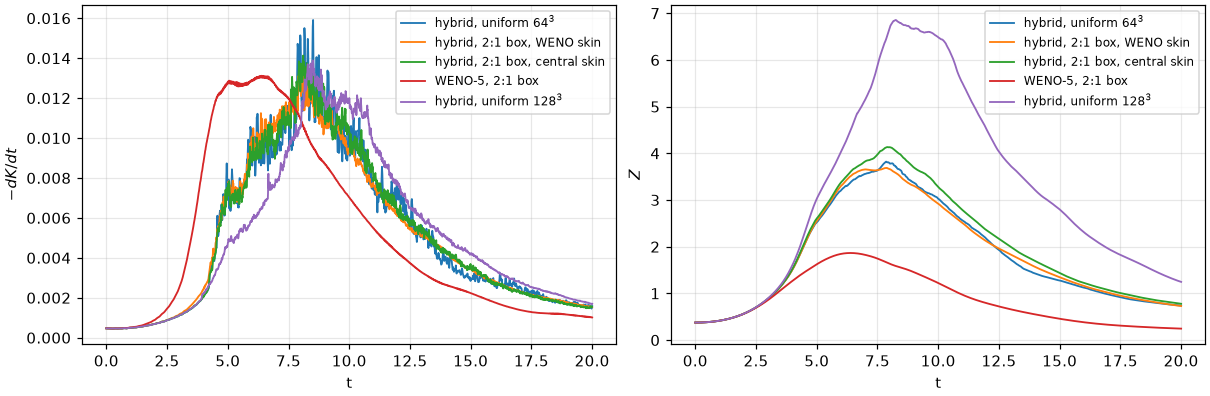
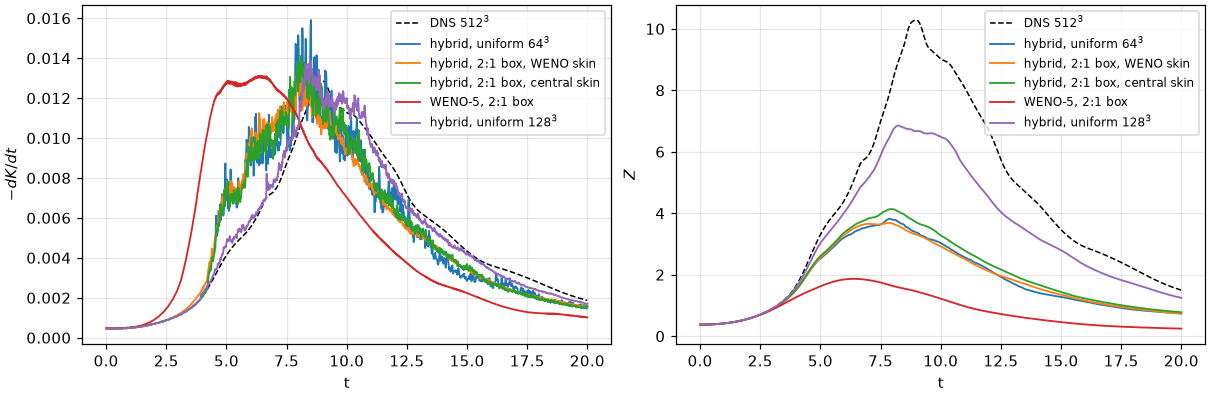
docs(flume): the Taylor-Green campaign against the 512^3 DNS (#119 T0.3, T1.7, T2.7)
The owner supplied spectral_Re1600_512.gdiag. tgv_dns.py gives peak and L2 errors against it, the three page figures draw it, the page has a table.

Result at M 0.1, L2 error of -dK/dt, of Z, of K: hybrid 128^3 0.067, 0.271, 0.014; WENO-5 256^3 0.090, 0.331, 0.020; WENO-5 128^3 0.278, 0.643, 0.083. The
hybrid at 128^3 beats WENO-5 at 256^3 on all three. Vreman worsens the hybrid (0.114, 0.400, 0.029 at 128^3), as all three models worsen WENO-5. On the 2:1
box the central skin ties or beats uniform 64^3, the WENO skin does not. WENO-9 beats WENO-5, WENO-7 stays unexplained below it.

Numbers from the existing campaign histories; no solver change, no run. The data file is not in this commit: redistribution is not established, and the
figures skip the curve without it. Gate: docs build.

New directives: no new directives.

diff --git a/src/tests/flume/verification/make_doc_figures.py b/src/tests/flume/verification/make_doc_figures.py
@@ -2154,8 +2154,20 @@ def _turbulence_history(work: Path) -> np.ndarray:
     return rows
 
 
-def _turbulence_panels(axs, runs: Path, cases: list[tuple[str, str]], tscale: float = 1.0) -> None:
+def _dns_curve(axs) -> None:
+    """Draw the 512^3 spectral DNS of the High-Order CFD Workshop, C3.5, if its file is in the repository root."""
+    path = Path(__file__).resolve().parents[4] / "spectral_Re1600_512.gdiag"
+    if not path.exists():
+        return
+    t, _, d, z = np.loadtxt(path, comments="#").T
+    axs[0].plot(t, d, color="k", ls="--", lw=1.0, label="DNS $512^3$")
+    axs[1].plot(t, z, color="k", ls="--", lw=1.0, label="DNS $512^3$")
+
+
+def _turbulence_panels(axs, runs: Path, cases: list[tuple[str, str]], tscale: float = 1.0, dns: bool = False) -> None:
     """Draw -dK/dt and the enstrophy of the cases (name, label) on the two axes; a case not run yet is left out."""
+    if dns:
+        _dns_curve(axs)
     for name, label in cases:
         work = runs / name
         if not (work / "tgv-turbulence_history.dat").exists():
@@ -2179,12 +2191,10 @@ def fig_tgv_iles(out: Path, runs: Path) -> None:
     if not (root / "m0.1-weno-5-n64").exists():
         raise FileNotFoundError(root / "m0.1-weno-5-n64")
     fig, axs = plt.subplots(3, 2, figsize=(11.0, 10.0), constrained_layout=True, sharex=True)
-    _turbulence_panels(axs[0], root, [(f"m0.1-weno-5-n{n}", f"WENO-5, ${n}^3$") for n in (64, 128, 256)])
+    _turbulence_panels(axs[0], root, [(f"m0.1-weno-5-n{n}", f"WENO-5, ${n}^3$") for n in (64, 128, 256)], dns=True)
     _turbulence_panels(axs[1], root, [("m0.1-weno-5-n128", "WENO-5"), ("m0.1-riemann-5-n128", "WENO-5 HLLC"),
-                                      ("m0.1-weno-7-n128", "WENO-7"), ("m0.1-weno-9-n128", "WENO-9")])
+                                      ("m0.1-weno-7-n128", "WENO-7"), ("m0.1-weno-9-n128", "WENO-9")], dns=True)
     _turbulence_panels(axs[2], root, [(f"m1.25-weno-5-n{n}", f"$M_0$ 1.25, ${n}^3$") for n in (64, 128, 256)])
-    for r in (0, 1):
-        axs[r, 1].axhline(10.3, color="k", ls=":", lw=0.8)
     axs[2, 0].set_xlabel("t")
     axs[2, 1].set_xlabel("t")
     fig.savefig(out / "tgv-iles.png", dpi=DPI)
@@ -2200,9 +2210,9 @@ def fig_tgv_models(out: Path, runs: Path) -> None:
     fig, axs = plt.subplots(3, 2, figsize=(11.0, 10.0), constrained_layout=True, sharex=True)
     for row, n in ((0, 64), (1, 128)):
         _turbulence_panels(axs[row], root, [(f"m0.1-weno-5-n{n}", f"no model, ${n}^3$"), (f"m0.1-vreman-5-n{n}", "Vreman"),
-                                            (f"m0.1-wale-5-n{n}", "WALE"), (f"m0.1-sigma-5-n{n}", "Sigma")])
+                                            (f"m0.1-wale-5-n{n}", "WALE"), (f"m0.1-sigma-5-n{n}", "Sigma")], dns=True)
     _turbulence_panels(axs[2], root, [("m0.1-weno-5-n64", "uniform $64^3$"), ("m0.1-box-5-n64", "2:1 box, tricubic, mean"),
-                                      ("m0.1-box-q6-5-n64", "2:1 box, quintic, lagrange6"), ("m0.1-weno-5-n128", "uniform $128^3$")])
+                                      ("m0.1-box-q6-5-n64", "2:1 box, quintic, lagrange6"), ("m0.1-weno-5-n128", "uniform $128^3$")], dns=True)
     axs[2, 0].set_xlabel("t")
     axs[2, 1].set_xlabel("t")
     fig.savefig(out / "tgv-models.png", dpi=DPI)
@@ -2249,13 +2259,11 @@ def fig_tgv_hybrid(out: Path, runs: Path) -> None:
         raise FileNotFoundError(root / "m0.1-hybrid-n64")
     fig, axs = plt.subplots(3, 2, figsize=(11.0, 10.0), constrained_layout=True, sharex=True)
     _turbulence_panels(axs[0], root, [("m0.1-hybrid-n64", "hybrid, $64^3$"), ("m0.1-hybrid-n128", "hybrid, $128^3$"), ("m0.1-weno-5-n128", "WENO-5, $128^3$"),
-                                      ("m0.1-weno-5-n256", "WENO-5, $256^3$")])
+                                      ("m0.1-weno-5-n256", "WENO-5, $256^3$")], dns=True)
     _turbulence_panels(axs[1], root, [("m0.1-hybrid-n64", "hybrid, $64^3$"), ("m0.1-hybrid-vreman-n64", "hybrid + Vreman, $64^3$"), ("m0.1-hybrid-n128", "hybrid, $128^3$"),
-                                      ("m0.1-hybrid-vreman-n128", "hybrid + Vreman, $128^3$")])
+                                      ("m0.1-hybrid-vreman-n128", "hybrid + Vreman, $128^3$")], dns=True)
     _turbulence_panels(axs[2], root, [("m1.25-hybrid-n128", "hybrid, $128^3$"), ("m1.25-hybrid-n256", "hybrid, $256^3$"), ("m1.25-weno-5-n128", "WENO-5, $128^3$"),
                                       ("m1.25-weno-5-n256", "WENO-5, $256^3$")])
-    for r in (0, 1):
-        axs[r, 1].axhline(10.3, color="k", ls=":", lw=0.8)
     axs[2, 0].set_xlabel("t")
     axs[2, 1].set_xlabel("t")
     fig.savefig(out / "tgv-hybrid.png", dpi=DPI)
@@ -2263,7 +2271,7 @@ def fig_tgv_hybrid(out: Path, runs: Path) -> None:
     fig, axs = plt.subplots(1, 2, figsize=(11.0, 3.6), constrained_layout=True)
     _turbulence_panels(axs, root, [("m0.1-hybrid-n64", "hybrid, uniform $64^3$"), ("m0.1-hybrid-box-n64", "hybrid, 2:1 box, WENO skin"),
                                    ("m0.1-hybrid-box-central-n64", "hybrid, 2:1 box, central skin"), ("m0.1-box-5-n64", "WENO-5, 2:1 box"),
-                                   ("m0.1-hybrid-n128", "hybrid, uniform $128^3$")])
+                                   ("m0.1-hybrid-n128", "hybrid, uniform $128^3$")], dns=True)
     axs[0].set_xlabel("t")
     axs[1].set_xlabel("t")
     fig.savefig(out / "tgv-hybrid-box.png", dpi=DPI)

diff --git a/src/tests/flume/verification/turbulence/tgv_dns.py b/src/tests/flume/verification/turbulence/tgv_dns.py
@@ -1,0 +1,43 @@
+#!/usr/bin/env python3
+"""The Taylor-Green campaign of issue #119 against the 512^3 spectral DNS (High-Order CFD Workshop, case C3.5, spectral_Re1600_512.gdiag): one row per case
+directory. Peak -dK/dt over a window of 0.5, as the page; L2 errors over 0.3 < t < 19.7, relative to the DNS: of -dK/dt (both over the window), of Z and of K.
+
+Usage: tgv_dns.py <gdiag> <directory holding the cases> <case>...
+"""
+
+from __future__ import annotations
+
+import sys
+from pathlib import Path
+
+import numpy as np
+
+VOLUME = (2.0 * np.pi) ** 3
+
+
+def main() -> int:
+    """Print the table."""
+    tdns, kdns, ddns, zdns = np.loadtxt(sys.argv[1], comments="#").T
+    print(f"DNS: peak -dK/dt {ddns.max():.5f} at t {tdns[ddns.argmax()]:.2f}, Z {zdns.max():.3f} at t {tdns[zdns.argmax()]:.2f}")
+    print(f"{'case':30s} {'-dK/dt':>8s} {'at t':>6s} {'Z':>7s} {'at t':>6s} {'L2 dK':>7s} {'L2 Z':>7s} {'L2 K':>7s}")
+    keep = (tdns > 0.3) & (tdns < 19.7)
+    t = tdns[keep]
+    window = np.ones(50) / 50.0
+    dref = np.convolve(ddns, window, "same")[keep]
+
+    def err(a: np.ndarray, b: np.ndarray) -> float:
+        return float(np.sqrt(np.trapezoid((a - b) ** 2, t) / np.trapezoid(b**2, t)))
+
+    for case in sys.argv[3:]:
+        h = np.loadtxt(Path(sys.argv[2]) / case / "tgv-turbulence_history.dat", skiprows=1, ndmin=2)
+        _, last = np.unique(h[::-1, 0], return_index=True)  # the last copy of the rows run twice
+        h = h[::-1][last]
+        k, z = h[:, 2] / VOLUME, h[:, 3] / VOLUME
+        dk = -(np.interp(t + 0.25, h[:, 1], k) - np.interp(t - 0.25, h[:, 1], k)) / 0.5
+        print(f"{case:30s} {dk.max():8.5f} {t[dk.argmax()]:6.2f} {z.max():7.3f} {h[z.argmax(), 1]:6.2f} {err(dk, dref):7.3f} "
+              f"{err(np.interp(t, h[:, 1], z), zdns[keep]):7.3f} {err(np.interp(t, h[:, 1], k), kdns[keep]):7.3f}")
+    return 0
+
+
+if __name__ == "__main__":
+    sys.exit(main())

diff --git a/docs/applications/flume/verification/turbulence/index.md b/docs/applications/flume/verification/turbulence/index.md
@@ -38,8 +38,7 @@ Re 1600, $[0, 2\pi]^3$, `runge-kutta-ssp-54`, CFL 0.5, `weights = si`, 4 ranks o
 
 ![The ILES baseline on the Taylor-Green vortex](/flume/tgv-iles.png)
 
-*Top: M 0.1, WENO-5 by resolution; middle: M 0.1 at $128^3$ by scheme and order; bottom: $M_0 = 1.25$ by resolution. Left $-dK/dt$, right the enstrophy; dotted: the
-enstrophy peak about 10.3 quoted for the incompressible reference by Svärd (2022).*
+*Top: M 0.1, WENO-5 by resolution; middle: M 0.1 at $128^3$ by scheme and order; bottom: $M_0 = 1.25$ by resolution. Left $-dK/dt$, right the enstrophy; dashed: the 512³ spectral DNS, at M 0.1.*
 
 | Case | Peak $-dK/dt$ | at $t$ | Peak $Z$ | at $t$ | Numerical share to the peak | $K(20)$ |
 |---|---|---|---|---|---|---|
@@ -59,8 +58,7 @@ enstrophy peak about 10.3 quoted for the incompressible reference by Svärd (202
 
 The share is that of the energy lost until the peak of $-dK/dt$ not accounted for by $\varepsilon - p_d$.
 
-**Reference.** The 512³ pseudo-spectral DNS of the High-Order CFD Workshop (case C3.5, `spectral_Re1600_512.gdiag`) is not available to this tree, so no curve is compared,
-only the quoted peak. The incompressible reference has its dissipation peak near $t = 9$. Compressible Mach 1.25 is compared with nothing here.
+**Reference.** The 512³ pseudo-spectral DNS of the High-Order CFD Workshop (case C3.5, `spectral_Re1600_512.gdiag`), incompressible, so compared at M 0.1 only: peak $-dK/dt$ 0.01286 and peak $Z$ 10.29, both at $t = 8.97$. The table in [Against the DNS](#against-the-dns) gives the errors. Compressible Mach 1.25 is compared with nothing here.
 
 **What it shows.**
 - Numerical dissipation dominates: up to the peak of $-dK/dt$ it is 77 % of the energy lost at $64^3$ and 58 % at $128^3$ with WENO-5 at M 0.1. At $128^3$ the enstrophy peak is a third of the
@@ -89,7 +87,7 @@ Here the share leaves out the model's own dissipation, so it is not a pure numer
 
 **No model beats no model on this measure.** On a dissipative scheme each one lowers the enstrophy peak further from the reference (1.59 against 1.71 at $64^3$, 3.18 against 3.40 at $128^3$), and the three are nearly the same.
 The eddy viscosity adds to a numerical dissipation that already dominates; in the laminar phase, to $t = 2$ at M 0.4, it takes 21–53 % of the energy lost. Under the rule of #119 this makes the hybrid central/WENO scheme (T2) necessary before any model is
-recommended. The constants come from other discretizations and were not tuned. Only peaks are compared: a spectral comparison with filtered DNS could rank the models differently.
+recommended. The constants come from other discretizations and were not tuned. A spectral comparison with filtered DNS could still rank the models differently; on the integrals, [the DNS](#against-the-dns) confirms this.
 
 ## The effect of a 2:1 box (T0.6)
 
@@ -130,7 +128,7 @@ $K$ keeps changing with the resolution by 7 % from $128^3$ to $256^3$, so $256^3
 
 ![The hybrid scheme on the Taylor-Green vortex](/flume/tgv-hybrid.png)
 
-*Top: M 0.1, the hybrid against WENO-5; middle: with Vreman; bottom: $M_0 = 1.25$. Left $-dK/dt$, right the enstrophy; dotted: the enstrophy peak about 10.3 quoted for the incompressible reference.*
+*Top: M 0.1, the hybrid against WENO-5; middle: with Vreman; bottom: $M_0 = 1.25$. Left $-dK/dt$, right the enstrophy; dashed: the 512³ spectral DNS, on the M 0.1 rows.*
 
 | Case, M 0.1 | Peak $-dK/dt$, raw | Over $\Delta t = 0.5$ | at $t$ | Flicker, $7<t<10$ | Peak $Z$ | Numerical share to the peak |
 |---|---|---|---|---|---|---|
@@ -155,7 +153,7 @@ Isotropic turbulence: peak $Z$ 41.0 and 57.4 at $64^3$, $128^3$ against 34.5 and
 - At M 0.1 the hybrid reaches at $128^3$ a higher enstrophy peak than WENO-5 at $256^3$, and at $64^3$ more than WENO-5 at $128^3$, with the dissipation peak where the finer runs have it. $Z$ is still below the quoted 10.3.
 - At $M_0 = 1.25$ the gain is smaller, as the sensor keeps WENO around the shocklets.
 - **The raw peak of $-dK/dt$ is not a measure on the hybrid:** it flickers, 7 % at $64^3$, 2 % at $128^3$. The source is not established; the sensor switching on and off is the first candidate. Smoothed, the hybrid is 4–6 % above WENO-5 at $256^3$.
-- **Vreman on the hybrid** removes half of the flicker and lowers $Z$ by 20 %. At $64^3$ it lands below the finer runs (0.0117). Whether a model helps the hybrid is not settled by these peaks: it needs the DNS curves.
+- **Vreman on the hybrid** removes half of the flicker and lowers $Z$ by 20 %. At $64^3$ it lands below the finer runs (0.0117). Against the DNS it makes the hybrid worse at both resolutions (below).
 - The thresholds (0.2, 0.1) and the floor are not calibrated.
 
 ### On a 2:1 box, and what the skin costs
@@ -171,7 +169,38 @@ Isotropic turbulence: peak $Z$ 41.0 and 57.4 at $64^3$, $128^3$ against 34.5 and
 | hybrid, box, central skin | 0.01319 | 4.13 |
 | hybrid, uniform $64^3$ | 0.01333 | 3.82 |
 
-With the WENO skin the box ends below the uniform run in $Z$: the skin takes more than the extra cells give. The central skin is stable to $t = 20$ and above it. Neither is shown more accurate, without a reference curve. A vortex after Jiang & Shu (the code's profile, same strength and radius, unit square) through a Mach 1.1 shock crossing the box seams also runs with the central skin; it differs from the WENO skin by at most $2.8\cdot10^{-4}$ in density at $t = 0.35$.
+With the WENO skin the box ends below the uniform run in $Z$: the skin takes more than the extra cells give. The central skin is stable to $t = 20$ and above it. Against the DNS the central skin is the closer one (table below), on this smooth flow; the case with a shock has no reference. A vortex after Jiang & Shu (the code's profile, same strength and radius, unit square) through a Mach 1.1 shock crossing the box seams also runs with the central skin; it differs from the WENO skin by at most $2.8\cdot10^{-4}$ in density at $t = 0.35$.
+
+### Against the DNS
+
+M 0.1 against the 512³ DNS, from `turbulence/tgv_dns.py`. Peak $-dK/dt$ over a window of 0.5; L2 errors over $0.3 < t < 19.7$ relative to the DNS, $-dK/dt$ over the same window.
+
+| Case | Peak $-dK/dt$ | at $t$ | Peak $Z$ | at $t$ | L2 $-dK/dt$ | L2 $Z$ | L2 $K$ |
+|---|---|---|---|---|---|---|---|
+| DNS | 0.01286 | 8.97 | 10.29 | 8.97 | | | |
+| WENO-5, $64^3$ | 0.01357 | 5.09 | 1.709 | 6.25 | 0.660 | 0.844 | 0.187 |
+| WENO-5, $128^3$ | 0.01216 | 8.29 | 3.400 | 8.11 | 0.278 | 0.643 | 0.083 |
+| WENO-5, $256^3$ | 0.01260 | 8.72 | 6.182 | 8.56 | 0.090 | 0.331 | 0.020 |
+| HLLC, $128^3$ | 0.01235 | 8.32 | 3.585 | 8.11 | 0.260 | 0.623 | 0.070 |
+| WENO-7, $128^3$ | 0.01215 | 8.11 | 3.171 | 8.14 | 0.291 | 0.688 | 0.101 |
+| WENO-9, $128^3$ | 0.01274 | 8.27 | 4.454 | 8.03 | 0.177 | 0.539 | 0.037 |
+| Vreman, $64^3$ | 0.01373 | 5.11 | 1.591 | 6.23 | 0.671 | 0.854 | 0.200 |
+| Vreman, $128^3$ | 0.01193 | 8.28 | 3.177 | 8.15 | 0.295 | 0.662 | 0.092 |
+| WALE, $128^3$ | 0.01183 | 8.26 | 3.164 | 8.16 | 0.296 | 0.660 | 0.091 |
+| Sigma, $128^3$ | 0.01192 | 8.29 | 3.184 | 8.14 | 0.293 | 0.660 | 0.091 |
+| WENO-5, 2:1 box | 0.01304 | 6.41 | 1.865 | 6.39 | 0.617 | 0.829 | 0.178 |
+| hybrid, $64^3$ | 0.01333 | 8.09 | 3.822 | 7.86 | 0.237 | 0.615 | 0.057 |
+| **hybrid, $128^3$** | 0.01317 | 8.47 | 6.856 | 8.25 | 0.067 | 0.271 | 0.014 |
+| hybrid + Vreman, $64^3$ | 0.01173 | 8.21 | 2.917 | 8.09 | 0.283 | 0.678 | 0.086 |
+| hybrid + Vreman, $128^3$ | 0.01226 | 8.58 | 5.529 | 8.33 | 0.114 | 0.400 | 0.029 |
+| hybrid, 2:1 box, WENO skin | 0.01239 | 8.14 | 3.688 | 7.88 | 0.269 | 0.618 | 0.063 |
+| hybrid, 2:1 box, central skin | 0.01319 | 8.11 | 4.134 | 7.91 | 0.236 | 0.580 | 0.059 |
+
+- **The hybrid at $128^3$ is closer than WENO-5 at $256^3$** on all three errors, with one eighth of the cells. At $64^3$ it is closer than WENO-5 at $128^3$.
+- Its peak of $-dK/dt$ is 2.4 % above the DNS and comes at $t = 8.47$ rather than 8.97; $Z$ at $128^3$ reaches two thirds of the DNS peak, so the gradients are not converged.
+- **A model makes it worse:** Vreman takes the $-dK/dt$ error from 0.067 to 0.114 and the $Z$ error from 0.27 to 0.40 at $128^3$. All three models also worsen WENO-5. This flow at Re 1600 is not a case where the subgrid scales are far from resolved, and the constants were not tuned; on these integrals no model is recommended here.
+- **WENO-9** at $128^3$ (0.177) is much closer than WENO-5 (0.278); **WENO-7** is further (0.291), still unexplained.
+- **The skin:** on the 2:1 box the WENO skin (0.269) is further than uniform $64^3$ (0.237); the central skin ties it on $-dK/dt$ (0.236) and beats it on $Z$ (0.580 against 0.615). Smooth flow only.
 
 ### Cost
 
@@ -180,6 +209,6 @@ With the WENO skin the box ends below the uniform run in $Z$: the skin takes mor
 ## Not done
 
 - HLLC at $256^3$, M 0.1 was dropped by owner decision.
-- Comparison with DNS curves and spectra, which needs the reference files.
+- Spectra against the DNS: the file holds integrals only. The DNS of Johnsen et al. for the isotropic case.
 - Calibration of the sensor; a model masked by face rather than by cell; `central-bcs` on a forest seam.
 - A model on 2:1 grids beyond conservation; runtime AMR with a model; a wall.

diff --git a/docs/applications/flume/numerics.md b/docs/applications/flume/numerics.md
@@ -616,7 +616,7 @@ One flux per face, so conservation holds whichever kernel set it; computing WENO
 
 **Seams and boundaries.** The central stencil must not read ghost cells that are not a same-level copy: a face along $d$ whose stencil reaches the ghost cells of a 2:1 face, a physical face or a forest seam normal to $d$ keeps the WENO flux (T2.4). So a seam and its reflux stay what they are under `weno`. A flag acts along its own normal only, and on such grids the sensor is exchanged like a state, one more halo exchange per stage: otherwise the two blocks of a same-level interface could take different fluxes at their common face, and conservation is lost (measured: $2\cdot10^{-7}$ on a 2:1 box). Whether this could be relaxed has not been measured.
 
-`hybrid_skin` relaxes this for measurement ([input](./input#numerics)); the default stays WENO, as the runs have no reference curve to prefer another.
+`hybrid_skin` relaxes this for measurement ([input](./input#numerics)); the default stays WENO: on a smooth flow the central skin is closer to the DNS, but with a shock at a seam there is no reference ([verification](./verification/turbulence/#against-the-dns)).
 
 **With a subgrid-scale model.** The eddy viscosity is zero on flagged cells (T2.6). The rule is per cell: a WENO face next to a flagged cell, or on a skin, can still carry the model. The sensor and its exchange then run twice per stage.
 
